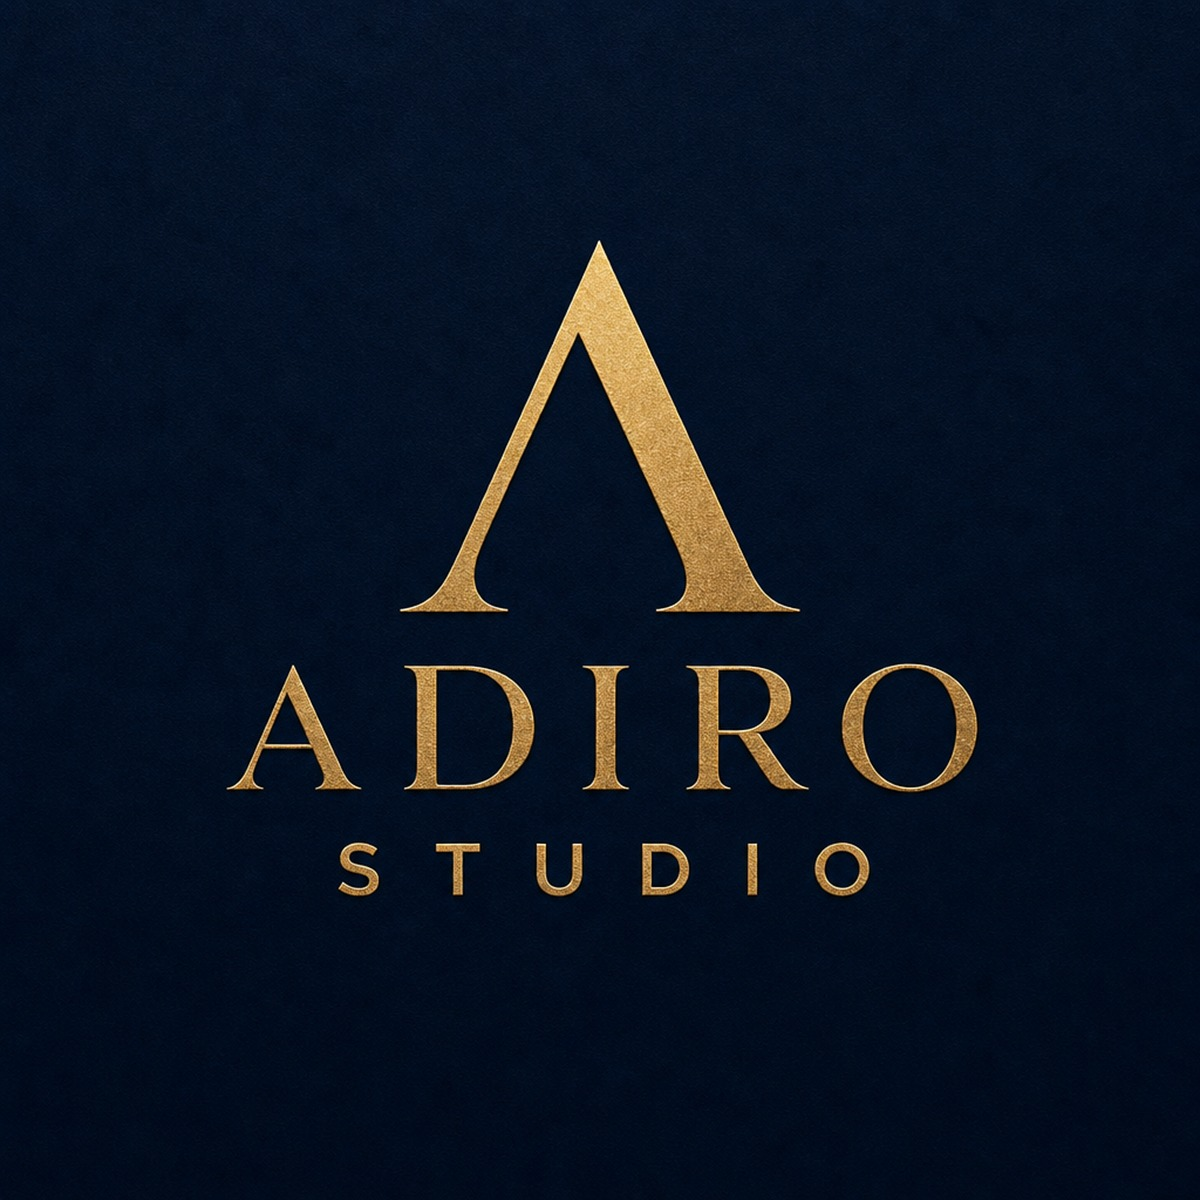
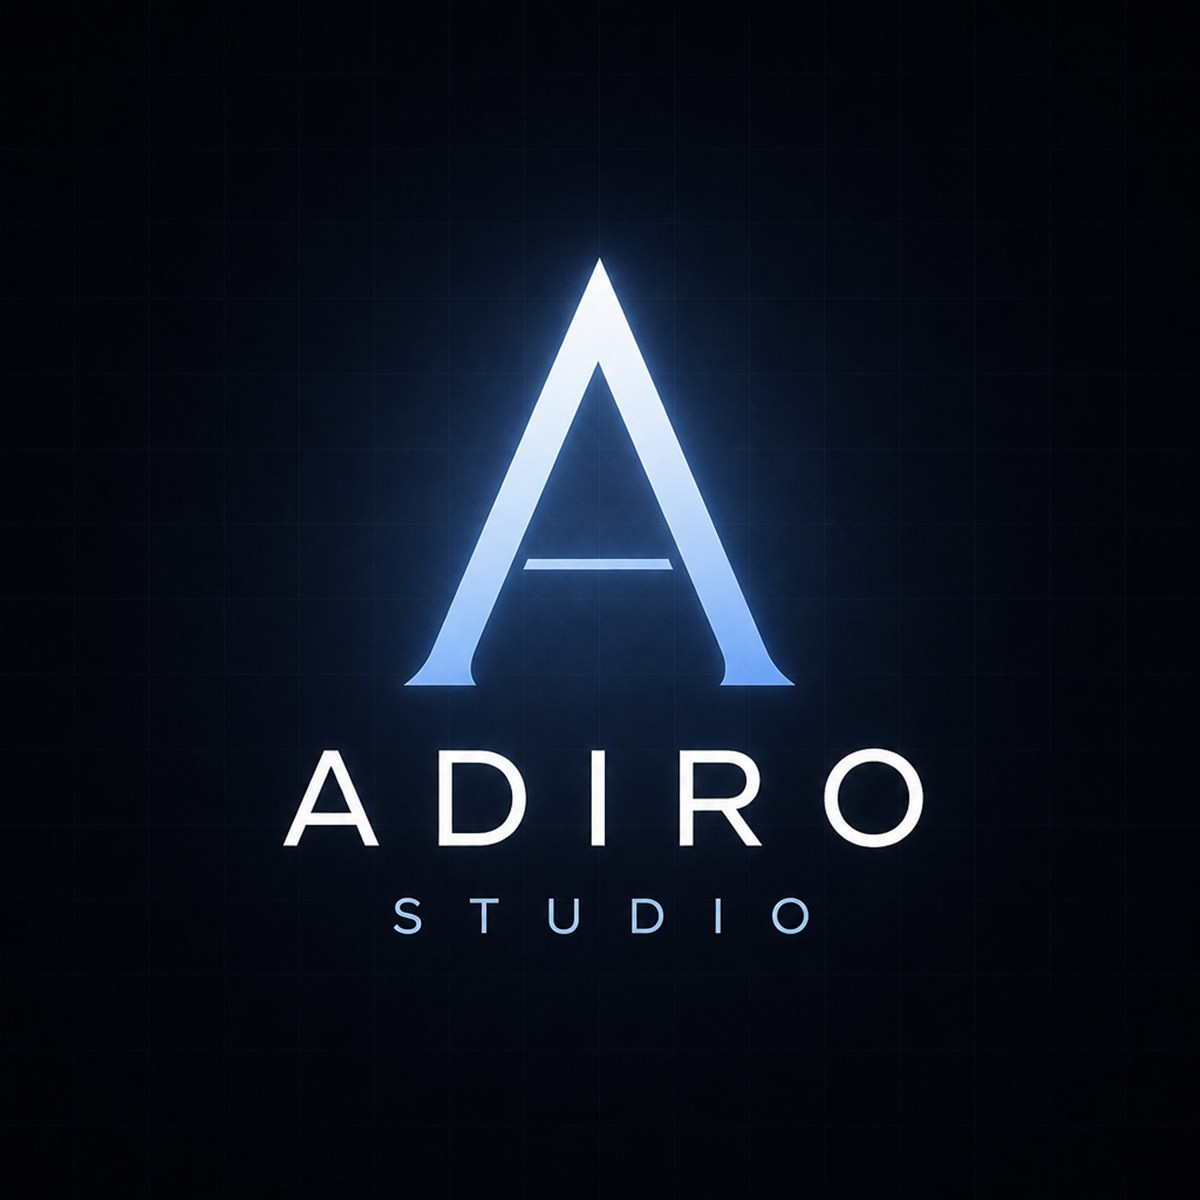
Upgrade Open Graph link preview to match new Adiro Studio branding.

diff --git a/lib/site.ts b/lib/site.ts
@@ -6,7 +6,7 @@ export const site = {
   phoneTel: "+972535931610",
   whatsappUrl:
     "https://wa.me/972535931610?text=%D7%94%D7%99%D7%99%2C%20%D7%90%D7%A9%D7%9E%D7%97%20%D7%9C%D7%91%D7%93%D7%95%D7%A7%20%D7%94%D7%AA%D7%90%D7%9E%D7%94%20%D7%9C%D7%90%D7%AA%D7%A8%20%D7%9C%D7%A2%D7%A1%D7%A7%20%D7%A9%D7%9C%D7%99",
-  title: "Adiro Studio — אתרים שמביאים פניות",
+  title: "Adiro Studio — בוחרים בסטנדרט, מקבלים תוצאה שמוכרת",
   description:
     "Adiro Studio בונה ומשדרג אתרים לעסקים: עיצוב מדויק, פיתוח מהיר, ונוכחות דיגיטלית שמגדילה אמון ופניות.",
 } as const;

diff --git a/app/layout.tsx b/app/layout.tsx
@@ -29,7 +29,7 @@ export const metadata: Metadata = {
     siteName: site.brand,
     images: [
       {
-        url: "/og-image.png",
+        url: "/og-image.png?v=3",
         width: 1200,
         height: 1200,
         alt: "Adiro Studio",
@@ -41,7 +41,7 @@ export const metadata: Metadata = {
     card: "summary_large_image",
     title: site.title,
     description: site.description,
-    images: ["/og-image.png"],
+    images: ["/og-image.png?v=3"],
   },
   robots: {
     index: true,
